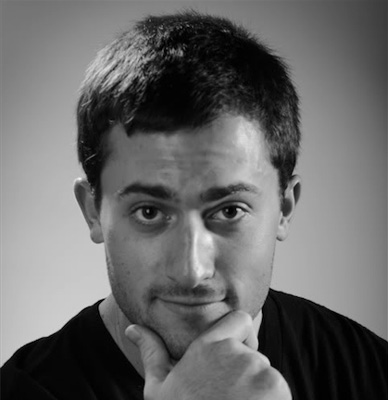
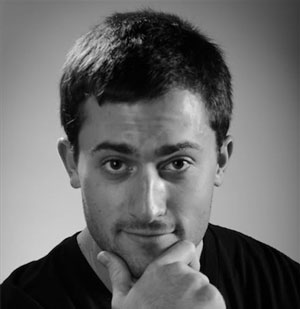
changes

diff --git a/css/index.css b/css/index.css
@@ -3,7 +3,11 @@
     box-sizing: border-box;
     margin: 0;
     /*padding: 0px;*/
-}    
+}   
+
+#wrapper {
+    height: 750px;
+}
 
 body {
     background-color: #ffffff;
@@ -43,10 +47,10 @@ header {
 
 header img {
     float: left;
-    /*clear: both;*/
     padding: 0px; /* TRouBLe */
     margin-right: auto;
     margin-left: auto;
+    margin-top: 5px;
    width:100%;
    /* padding: 10px;*/
 }
@@ -54,7 +58,7 @@ header img {
 header nav {
     float:left;
     padding: 0px;
-    margin-top: 10px;
+    margin-top: 20px;
     margin-bottom: 5px;
     margin-right: auto;
     margin-left: auto;
@@ -110,7 +114,9 @@ figure img {
     /* padding: 100px; */
     width:60%;
     margin-left: auto;
-    margin-right: auto;    
+    margin-right: auto;
+    margin-top: 50px;
+    margin-bottom: 50px;
 } 
 
 /* styles the image. */

diff --git a/css/base.css b/css/base.css
@@ -8,11 +8,16 @@
     margin-right: auto;
 }    
 
+#wrapper {
+    height: 750px;
+}
+
 body {
     background-color: #ffffff;
     font-family: georgia, serif;
     font-size: 16px;
     line-height: 24px;
+   
 }
 
 div {
@@ -62,7 +67,7 @@ opacity: 0.5;
     
 header nav {
     margin-top: 80px;
-    margin-right: 55px;
+    margin-right: 95px;
     width: 60%;
     float:right;
     
@@ -111,7 +116,8 @@ figure img {
     padding: 0px;
     width:100%;
     /* margin-left: auto;*/
-    margin-right: auto; 
+    margin-right: auto;
+   /* margin-bottom: 200px;*/
     border-style: solid;
     border-width: 5px;
 } 
@@ -120,7 +126,7 @@ aside {
     float:right;
     width: 60%;
     margin-left: 0px;
-    margin-right: 25px;
+    margin-right: 65px;
     margin-top: 5px;
 }
  

diff --git a/index.html b/index.html
@@ -16,7 +16,7 @@
         <!-- This is the syntax for a CSS comment. -->
         <!-- header banner that containes white back ground with blended logo and nav buttons -->            
         <header>
-            <img class="centerlogo" src="img/aaronlogolongbigcomp.png" alt="Aaron Logo" title="Aaron Logo" />
+            <img class="centerlogo" src="img/aaronlogolongbig.png" alt="Aaron Logo" title="Aaron Logo" />
             <nav>
             <a href="about.html">About</a>
             <a href="news.html">News</a>

diff --git a/resumes.html b/resumes.html
@@ -35,7 +35,7 @@
           
             
            <figure>
-            <img src="img/aaron-press-side.png" alt="Aaron Headshot" title="Aaron Headshot" />
+            <img src="img/aaron-press-side.jpg" alt="Aaron Headshot" title="Aaron Headshot" />
               <!-- <figcaption><p>photo caption</p></figcaption> -->
             </figure>
         </article>

diff --git a/portfolio.html b/portfolio.html
@@ -41,7 +41,7 @@
           
             
            <figure>
-            <img src="img/solomonpress.png" alt="Aaron Headshot" title="Aaron Headshot" />
+            <img src="img/solomonpress.jpg" alt="Aaron Headshot" title="Aaron Headshot" />
               <!-- <figcaption><p>photo caption</p></figcaption> -->
             </figure>
         </article>
